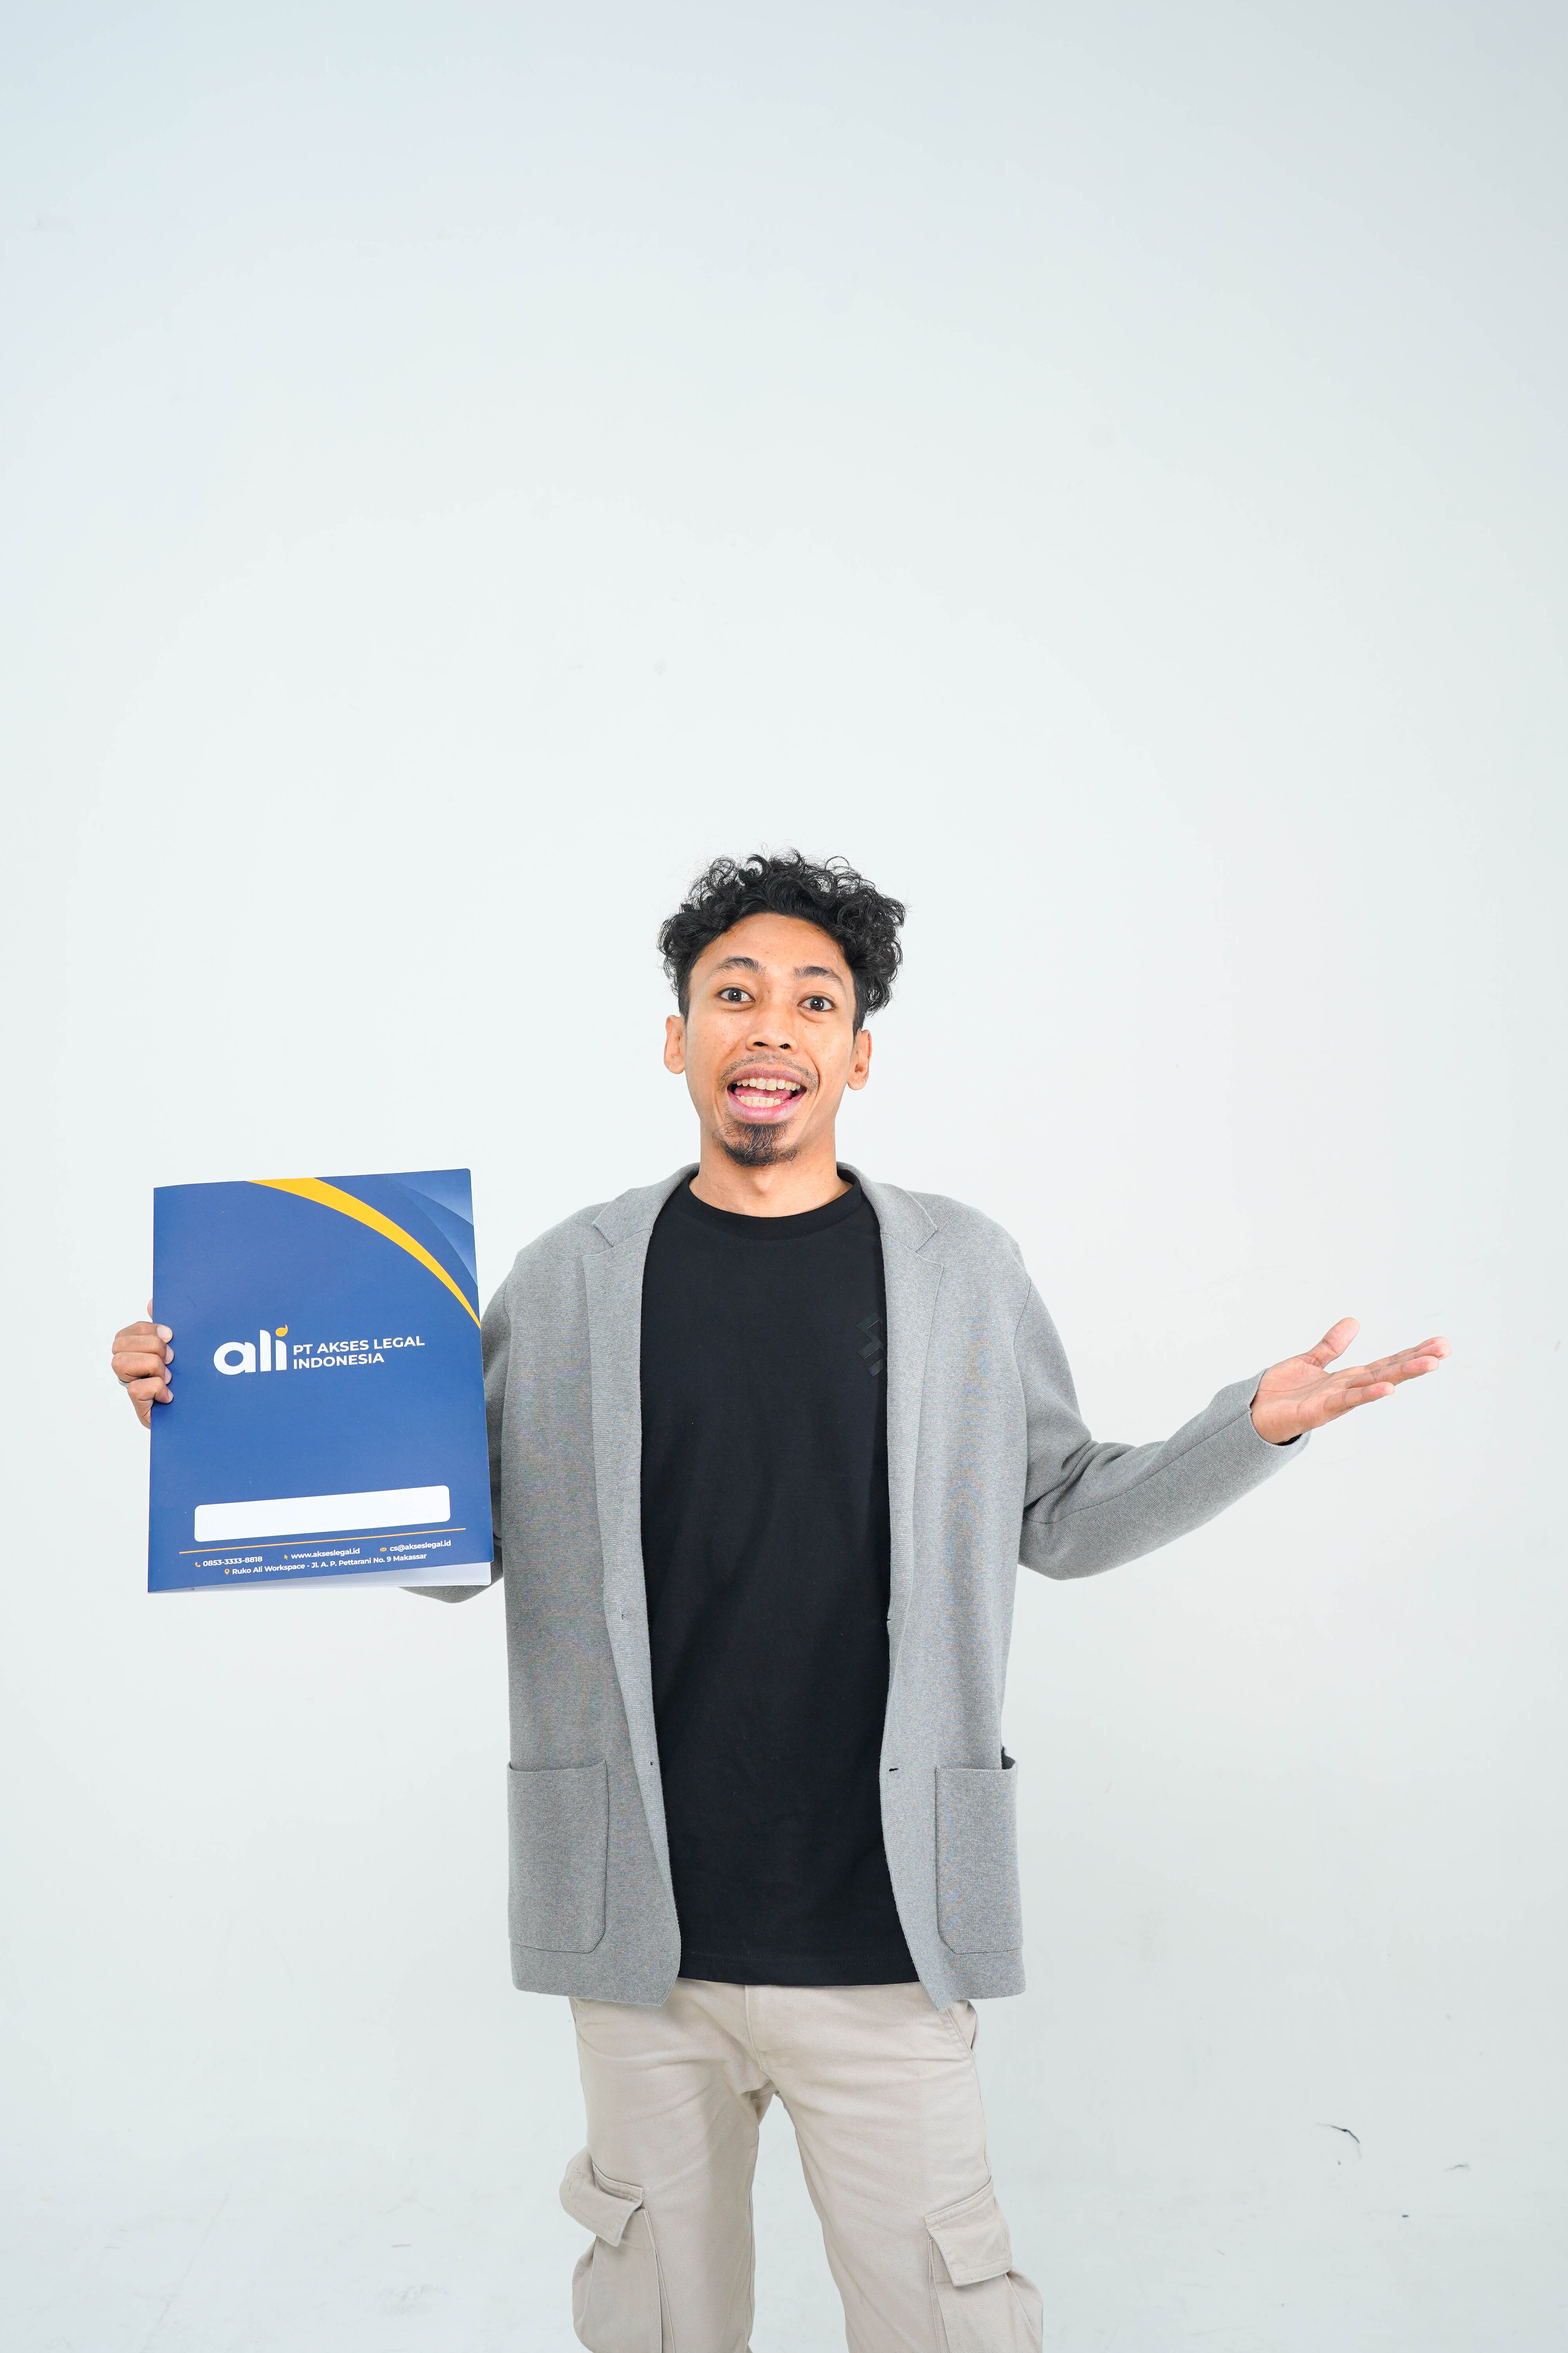
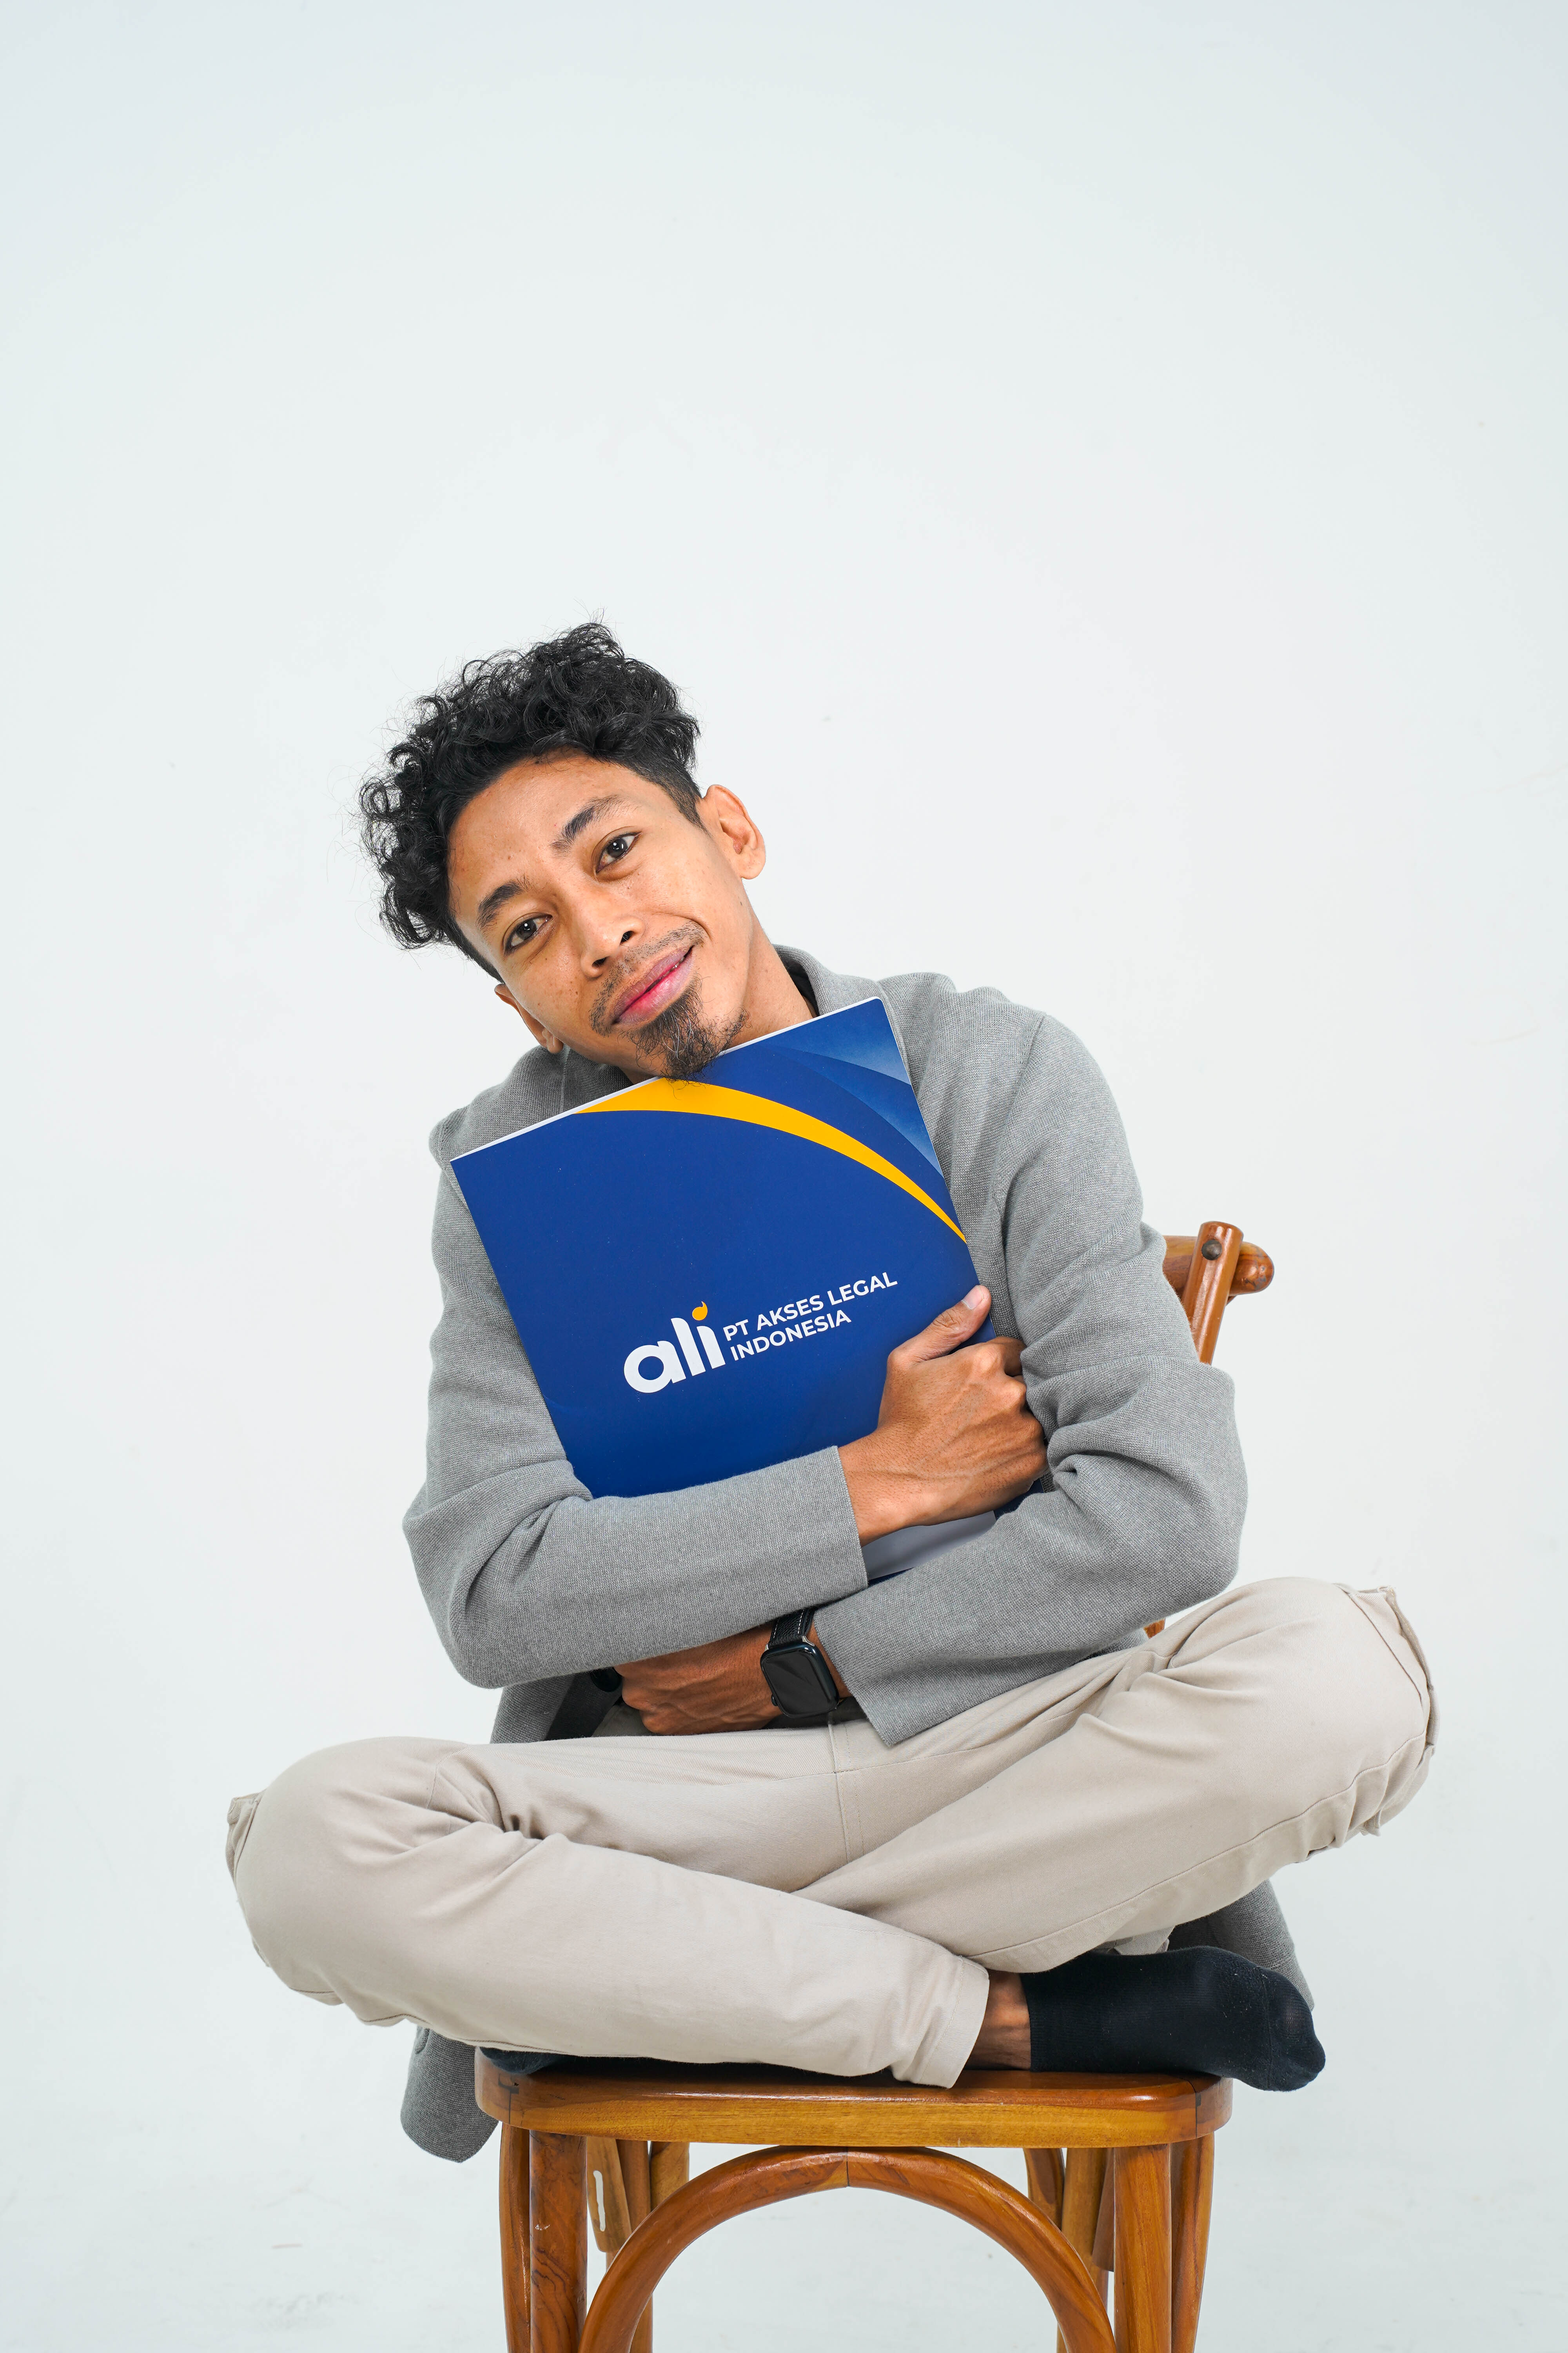
perbaiki ukuran gambar

diff --git a/index.html b/index.html
@@ -609,7 +609,7 @@
                         <h6 class="font-bold text-gray-800 text-xs mb-3 text-center">Terdaftar di Portal Resmi
                         </h6>
                         <div class="flex flex-wrap justify-center items-center gap-2 mb-4">
-                            <img src="img/lkpp.png" alt="LKPP" class="h-6 rounded-full">
+                            <img src="img/lkpp.png" alt="LKPP" class="h-10 rounded-full">
                             <img src="img/oss.png" alt="OSS" class="h-6 rounded-full">
                             <img src="img/coretax.jpeg" alt="Coretax" class="h-6 rounded-full">
                             <img src="img/inaproc.png" alt="INAPROC" class="h-6 rounded-full">
@@ -694,7 +694,7 @@
                         <h6 class="font-bold text-gray-800 text-xs mb-3 text-center -mt-6">Terdaftar di Portal Resmi
                         </h6>
                         <div class="flex flex-wrap justify-center items-center gap-2 mb-4">
-                            <img src="img/lkpp.png" alt="LKPP" class="h-6 rounded-full">
+                            <img src="img/lkpp.png" alt="LKPP" class="h-10 rounded-full">
                             <img src="img/oss.png" alt="OSS" class="h-6 rounded-full">
                             <img src="img/coretax.jpeg" alt="Coretax" class="h-6 rounded-full">
                             <img src="img/inaproc.png" alt="INAPROC" class="h-6 rounded-full">
@@ -764,7 +764,7 @@
                 <article
                     class="bg-white rounded-2xl border border-slate-200 card-soft overflow-hidden relative shadow-md hover:shadow-lg transition-shadow"
                     id="yayasan">
-                    <img src="img/pendirian-yayasan.jpg" class="w-full h-[250px] object-cover object-[center_55%]"
+                    <img src="img/pendirian-yayasan.jpg" class="w-full h-[250px] object-cover object-[center_45%]"
                         alt="Pendirian Yayasan" />
                     <div class="p-6 text-left">
                         <h3 class="text-lg font-bold">Pendirian Yayasan</h3>
@@ -776,7 +776,7 @@
                         <h6 class="font-bold text-gray-800 text-xs mb-3 text-center -mt-6">Terdaftar di Portal Resmi
                         </h6>
                         <div class="flex flex-wrap justify-center items-center gap-2 mb-4">
-                            <img src="img/lkpp.png" alt="LKPP" class="h-6 rounded-full">
+                            <img src="img/lkpp.png" alt="LKPP" class="h-10 rounded-full">
                             <img src="img/oss.png" alt="OSS" class="h-6 rounded-full">
                             <img src="img/coretax.jpeg" alt="Coretax" class="h-6 rounded-full">
                             <img src="img/inaproc.png" alt="INAPROC" class="h-6 rounded-full">
@@ -859,7 +859,7 @@
                         <h6 class="font-bold text-gray-800 text-xs mb-3 text-center -mt-6">Terdaftar di Portal Resmi
                         </h6>
                         <div class="flex flex-wrap justify-center items-center gap-2 mb-4">
-                            <img src="img/lkpp.png" alt="LKPP" class="h-6 rounded-full">
+                            <img src="img/lkpp.png" alt="LKPP" class="h-10 rounded-full">
                             <img src="img/oss.png" alt="OSS" class="h-6 rounded-full">
                             <img src="img/coretax.jpeg" alt="Coretax" class="h-6 rounded-full">
                             <img src="img/inaproc.png" alt="INAPROC" class="h-6 rounded-full">
@@ -945,7 +945,7 @@
                         <h6 class="font-bold text-gray-800 text-xs mb-3 text-center -mt-6">Terdaftar di Portal Resmi
                         </h6>
                         <div class="flex flex-wrap justify-center items-center gap-2 mb-4">
-                            <img src="img/coretax.jpeg" alt="Coretax" class="h-8 rounded-full">
+                            <img src="img/coretax.jpeg" alt="Coretax" class="h-10 rounded-full">
                         </div>
                         <div class="text-center">
                             <div class="text-slate-400 line-through text-sm"></div>
